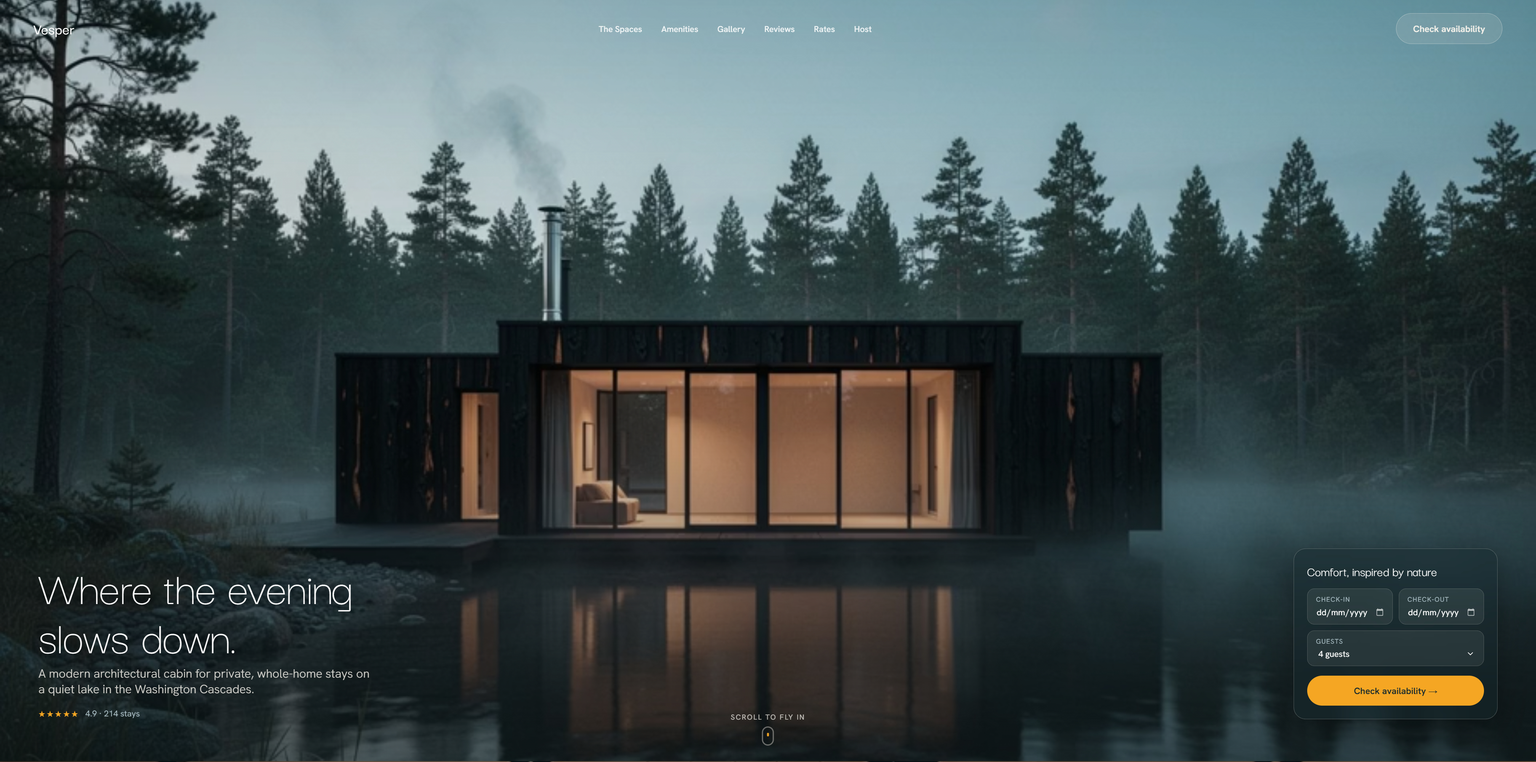
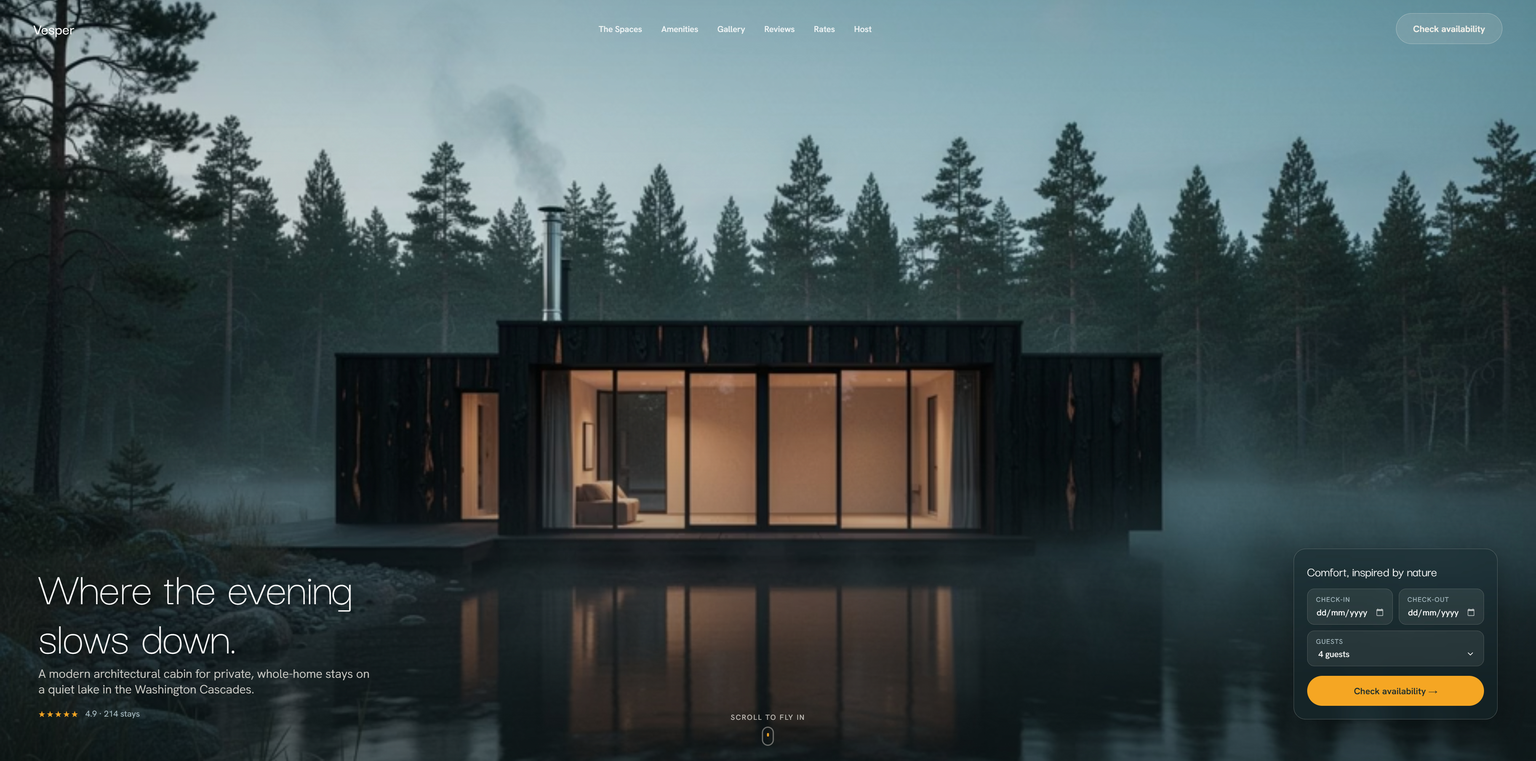
added vesper article

diff --git a/src/styles/article-editorial.css b/src/styles/article-editorial.css
@@ -46,6 +46,13 @@
   gap: 40px;
 }
 
+.compare-stack {
+  display: flex;
+  flex-direction: column;
+  gap: 32px;
+  width: 100%;
+}
+
 .final-statement-copy {
   margin: 28px auto 0;
   max-width: 48ch;

diff --git a/src/content/writing/why-hardest-part-ai-products-product-judgement.md b/src/content/writing/why-hardest-part-ai-products-product-judgement.md
@@ -8,6 +8,6 @@ featured: true
 placeholder: true
 ---
 
-This piece is a placeholder for build notes on "Why the hardest part of AI products is still product judgement". The full write-up hasn't been drafted yet — check back soon, or read the other pieces in [Writing](/lessons/) in the meantime.
+This piece is a placeholder for build notes on "Why the hardest part of AI products is still product judgement". The full write-up hasn't been drafted yet — check back soon, or read the other pieces in [Writing](/learnings/) in the meantime.
 
 Everyone can reach the same models. The advantage is knowing which problem deserves one, and what "good enough to ship" actually means.

diff --git a/src/content/writing/what-chess-coach-taught-me.md b/src/content/writing/what-chess-coach-taught-me.md
@@ -8,6 +8,6 @@ featured: false
 placeholder: true
 ---
 
-This piece is a placeholder for build notes on "What a chess coach taught me about explaining decisions". The full write-up hasn't been drafted yet — check back soon, or read the other pieces in [Writing](/lessons/) in the meantime.
+This piece is a placeholder for build notes on "What a chess coach taught me about explaining decisions". The full write-up hasn't been drafted yet — check back soon, or read the other pieces in [Writing](/learnings/) in the meantime.
 
 Building Brilliancy surfaced a hard truth about AI-generated explanations.

diff --git a/src/content/writing/one-person-pipeline-characters-assets-worlds.md b/src/content/writing/one-person-pipeline-characters-assets-worlds.md
@@ -8,6 +8,6 @@ featured: false
 placeholder: true
 ---
 
-This piece is a placeholder for build notes on "A one-person pipeline for characters, assets and playable worlds". The full write-up hasn't been drafted yet — check back soon, or read the other pieces in [Writing](/lessons/) in the meantime.
+This piece is a placeholder for build notes on "A one-person pipeline for characters, assets and playable worlds". The full write-up hasn't been drafted yet — check back soon, or read the other pieces in [Writing](/learnings/) in the meantime.
 
 Where generative tools hold up, and where they don't.

diff --git a/src/content/writing/keeping-a-character-consistent-400-generations.md b/src/content/writing/keeping-a-character-consistent-400-generations.md
@@ -8,6 +8,6 @@ featured: false
 placeholder: true
 ---
 
-This piece is a placeholder for build notes on "Keeping a character consistent across 400 generations". The full write-up hasn't been drafted yet — check back soon, or read the other pieces in [Writing](/lessons/) in the meantime.
+This piece is a placeholder for build notes on "Keeping a character consistent across 400 generations". The full write-up hasn't been drafted yet — check back soon, or read the other pieces in [Writing](/learnings/) in the meantime.
 
 A ComfyUI workflow for consistent characters, and what still breaks.

diff --git a/src/content/writing/making-a-team-ai-capable.md b/src/content/writing/making-a-team-ai-capable.md
@@ -8,6 +8,6 @@ featured: false
 placeholder: true
 ---
 
-This piece is a placeholder for build notes on "Making a team AI-capable without a transformation programme". The full write-up hasn't been drafted yet — check back soon, or read the other pieces in [Writing](/lessons/) in the meantime.
+This piece is a placeholder for build notes on "Making a team AI-capable without a transformation programme". The full write-up hasn't been drafted yet — check back soon, or read the other pieces in [Writing](/learnings/) in the meantime.
 
 What actually changes how a team builds, day to day.

diff --git a/src/content/writing/local-models-versus-cloud.md b/src/content/writing/local-models-versus-cloud.md
@@ -8,6 +8,6 @@ featured: false
 placeholder: true
 ---
 
-This piece is a placeholder for build notes on "Local models versus cloud: where the line actually sits". The full write-up hasn't been drafted yet — check back soon, or read the other pieces in [Writing](/lessons/) in the meantime.
+This piece is a placeholder for build notes on "Local models versus cloud: where the line actually sits". The full write-up hasn't been drafted yet — check back soon, or read the other pieces in [Writing](/learnings/) in the meantime.
 
 Cost, latency and privacy, measured rather than assumed.

diff --git a/src/content/writing/cto-question-nobody-asks.md b/src/content/writing/cto-question-nobody-asks.md
@@ -8,6 +8,6 @@ featured: false
 placeholder: true
 ---
 
-This piece is a placeholder for build notes on "The CTO question nobody asks: what should we not build?". The full write-up hasn't been drafted yet — check back soon, or read the other pieces in [Writing](/lessons/) in the meantime.
+This piece is a placeholder for build notes on "The CTO question nobody asks: what should we not build?". The full write-up hasn't been drafted yet — check back soon, or read the other pieces in [Writing](/learnings/) in the meantime.
 
 On saying no as a technical leadership skill.

diff --git a/src/content/writing/building-kerrzo-in-public.md b/src/content/writing/building-kerrzo-in-public.md
@@ -8,6 +8,6 @@ featured: false
 placeholder: true
 ---
 
-This piece is a placeholder for build notes on "Building Kerrzo in public: agents that actually do the work". The full write-up hasn't been drafted yet — check back soon, or read the other pieces in [Writing](/lessons/) in the meantime.
+This piece is a placeholder for build notes on "Building Kerrzo in public: agents that actually do the work". The full write-up hasn't been drafted yet — check back soon, or read the other pieces in [Writing](/learnings/) in the meantime.
 
 Notes from six weeks of shipping.

diff --git a/src/content/writing/twenty-five-years-of-tools-changing.md b/src/content/writing/twenty-five-years-of-tools-changing.md
@@ -8,6 +8,6 @@ featured: false
 placeholder: true
 ---
 
-This piece is a placeholder for build notes on "Thirty years of tools changing, and one thing that didn't". The full write-up hasn't been drafted yet — check back soon, or read the other pieces in [Writing](/lessons/) in the meantime.
+This piece is a placeholder for build notes on "Thirty years of tools changing, and one thing that didn't". The full write-up hasn't been drafted yet — check back soon, or read the other pieces in [Writing](/learnings/) in the meantime.
 
 On judgement as the durable skill.

diff --git a/src/content/writing/real-time-voice-ordering-latency.md b/src/content/writing/real-time-voice-ordering-latency.md
@@ -8,6 +8,6 @@ featured: false
 placeholder: true
 ---
 
-This piece is a placeholder for build notes on "Real-time voice ordering, and why latency is the product". The full write-up hasn't been drafted yet — check back soon, or read the other pieces in [Writing](/lessons/) in the meantime.
+This piece is a placeholder for build notes on "Real-time voice ordering, and why latency is the product". The full write-up hasn't been drafted yet — check back soon, or read the other pieces in [Writing](/learnings/) in the meantime.
 
 What 400ms does to a conversation.

diff --git a/src/content/writing/designing-systems-that-survive-their-own-success.md b/src/content/writing/designing-systems-that-survive-their-own-success.md
@@ -8,6 +8,6 @@ featured: false
 placeholder: true
 ---
 
-This piece is a placeholder for build notes on "Designing systems that survive their own success". The full write-up hasn't been drafted yet — check back soon, or read the other pieces in [Writing](/lessons/) in the meantime.
+This piece is a placeholder for build notes on "Designing systems that survive their own success". The full write-up hasn't been drafted yet — check back soon, or read the other pieces in [Writing](/learnings/) in the meantime.
 
 Notes from scaling a national ordering platform.
